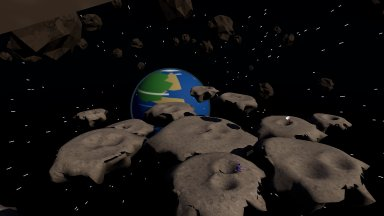
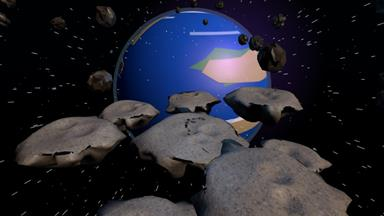
Comet Crash: the five small outer asteroids are gone; the big ring now orbits the hub and weaves, neighbours rising and sinking out of step so they pass above and below each other; riders are carried

diff --git a/src/comet.js b/src/comet.js
@@ -25,17 +25,19 @@ export function buildComet(A, T) {
   const addRoid = (x, z, y, R) => {
     const p = { kind: 'roid', x, z, y, w: 2 * R, d: 2 * R, ang: 0, round: R, i: plats.length, meshes: [], boxes: [], ramps: [], rays: [] };
     const ph = [r() * TAU, r() * TAU, r() * TAU], craters = []; for (let k = 0; k < 2 + (R > 12 ? 2 : 0); k++) { const a = r() * TAU, d = r() * R * 0.55; craters.push([x + Math.cos(a) * d, z + Math.sin(a) * d, 2 + r() * R * 0.18]); }
+    p.base = { x, y, z }; // (it drifts: everything below is measured from where it is now)
     p.hf = (qx, qz) => { // a lumpy, cratered top that rounds off at the edge
-      const dx = qx - x, dz = qz - z, u = Math.hypot(dx, dz) / R;
+      const dx = qx - p.x, dz = qz - p.z, u = Math.hypot(dx, dz) / R;
       let h = 0.45 * Math.sin(dx * 0.31 + ph[0]) * Math.sin(dz * 0.27 + ph[1]) + 0.25 * Math.sin(dx * 0.13 - dz * 0.17 + ph[2]);
-      for (const [cx, cz, cr] of craters) { const e = Math.hypot(qx - cx, qz - cz) / cr; h += -0.9 * Math.exp(-e * e * 2) + 0.35 * Math.exp(-(e - 1) * (e - 1) * 8); } // a dip with a raised rim
+      for (const [cx, cz, cr] of craters) { const e = Math.hypot(dx + x - cx, dz + z - cz) / cr; h += -0.9 * Math.exp(-e * e * 2) + 0.35 * Math.exp(-(e - 1) * (e - 1) * 8); } // a dip with a raised rim
       if (u > 0.8) h -= 1.6 * Math.min(1, (u - 0.8) / 0.2) ** 2;
-      return y + h;
+      return p.y + h;
     };
-    plats.push(p); A.discs.push({ x, z, r: R, y0: y - R * 0.7, y1: y, hf: p.hf }); p.discs = [A.discs[A.discs.length - 1]];
+    plats.push(p); A.discs.push({ x, z, r: R, y0: y - R * 0.7, y1: y + 1, hf: p.hf }); p.discs = [A.discs[A.discs.length - 1]];
     const box = { x0: x - R * 0.8, x1: x + R * 0.8, y0: y - R * 0.7, y1: y + 0.4, z0: z - R * 0.8, z1: z + R * 0.8 }; A.rayBoxes.push(box); p.rays.push(box);
     A.node('P' + p.i, x, p.hf(x, z), z).plat = p.i;
-    for (let k = 0; k < (R > 12 ? 3 : 1); k++) { const a = r() * TAU, d = k ? R * 0.45 : 0, sx = x + Math.cos(a) * d, sz = z + Math.sin(a) * d, sp = new THREE.Vector3(sx, p.hf(sx, sz) + 0.05, sz); sp.plat = p.i; A.spawns.push(sp); }
+    p.sps = [];
+    for (let k = 0; k < (R > 12 ? 3 : 1); k++) { const a = r() * TAU, d = k ? R * 0.45 : 0, sx = x + Math.cos(a) * d, sz = z + Math.sin(a) * d, sp = new THREE.Vector3(sx, p.hf(sx, sz) + 0.05, sz); sp.plat = p.i; sp.off = [sx - x, sz - z]; A.spawns.push(sp); p.sps.push(sp); }
     // the mesh: the top as a fine polar grid on the height function, the underside a lumpy dome
     const NA = 48, NT = 12, NB = 9, pos = [], col = [], idx = [], lump = (a, t) => 1 + 0.16 * Math.sin(3 * a + ph[0] + t * 3) + 0.08 * Math.sin(7 * a + ph[1] - t * 4) + 0.05 * Math.sin(13 * a + ph[2]);
     for (let i = 0; i <= NT; i++) for (let j = 0; j <= NA; j++) { const a = j / NA * TAU, rr = i / NT * R * (i === NT ? lump(a, 0) * 0.97 : 1), px = x + Math.cos(a) * rr, pz = z + Math.sin(a) * rr; const yy = p.hf(px, pz); pos.push(px, yy, pz); const c = 0.8 + (yy - y) * 0.12; col.push(c, c * 0.97, c * 0.94); }
@@ -55,15 +57,31 @@ export function buildComet(A, T) {
   const hub = addRoid(0, 0, 0, 16);
   const ring = [];
   for (let k = 0; k < 7; k++) { // the ring: each a jump (or a dash) from the hub and from its neighbours
-    const R = 8 + r() * 4, a = k / 7 * TAU + (r() - 0.5) * 0.2, d = 16 + R + 4.5 + r() * 2.5, y = Math.round((r() - 0.4) * 10);
-    ring.push(addRoid(Math.cos(a) * d, Math.sin(a) * d, y, R));
+    const R = 9 + r() * 3.5, a = k / 7 * TAU + (r() - 0.5) * 0.12, d = 16 + R + 5 + r() * 2;
+    const q = addRoid(Math.cos(a) * d, Math.sin(a) * d, 0, R); q.ang0 = a; q.dist = d; q.slot = k; ring.push(q);
   }
-  for (let k = 0; k < 5; k++) { // a few further out, off the gaps in the ring
-    const a = (k / 5 + 0.07) * TAU, base = ring.reduce((best, q) => { const qa = Math.atan2(q.z, q.x), dd = Math.abs(((qa - a + Math.PI * 3) % TAU) - Math.PI); return dd < best.d ? { q, d: dd } : best; }, { q: null, d: 9 }).q;
-    const R = 6 + r() * 3, dist = Math.hypot(base.x, base.z) + base.round + R + 4 + r() * 3, y = base.y + Math.round((r() - 0.5) * 6);
-    addRoid(Math.cos(a) * dist, Math.sin(a) * dist, y, R);
-  }
-  for (const a of roids) for (const b of roids) if (a.i < b.i && Math.hypot(a.x - b.x, a.z - b.z) - a.round - b.round < 9 && Math.abs(a.y - b.y) < 7) A.link('P' + a.i, 'P' + b.i); // (bots jump the gaps)
+  // they weave round each other on the way in: each slides to and fro round the ring and rises and sinks, neighbours out
+  // of step, so as two close in on each other one passes high and the other low. The hub just bobs. Wall clock time: the
+  // same for every player. (Seen looking toward the planet: rocks crossing left and right, above and below each other.)
+  const WEAVE = TAU / 15, AMP_A = 0.11, AMP_Y = 7.5, ORBIT = TAU / 55; // (the whole ring also orbits the hub, once a minute or so)
+  const weave = (p, t) => { if (p === hub) return { x: 0, y: Math.sin(t * WEAVE * 0.7) * 1.2, z: 0 };
+    const ph = t * WEAVE + p.slot * (TAU * 3 / 7), a = p.ang0 + t * ORBIT + AMP_A * Math.sin(ph), d = p.dist + 1.5 * Math.cos(ph);
+    return { x: Math.cos(a) * d - p.base.x, y: AMP_Y * Math.sin(ph), z: Math.sin(a) * d - p.base.z }; };
+  const place = (t) => {
+    for (const p of roids) { const o = weave(p, t); p.prev = { x: p.x, y: p.y, z: p.z }; p.x = p.base.x + o.x; p.y = p.base.y + o.y; p.z = p.base.z + o.z;
+      for (const m of p.meshes) m.position.set(o.x, o.y, o.z);
+      const c = p.discs[0]; c.x = p.x; c.z = p.z; c.y0 = p.y - p.round * 0.7; c.y1 = p.y + 1;
+      const b = p.rays[0], k = p.round * 0.8; b.x0 = p.x - k; b.x1 = p.x + k; b.z0 = p.z - k; b.z1 = p.z + k; b.y0 = p.y - p.round * 0.7; b.y1 = p.y + 0.4;
+      const n = A.nodeMap.get('P' + p.i); if (n) n.p.set(p.x, p.hf(p.x, p.z), p.z);
+      for (const sp of p.sps) sp.set(p.x + sp.off[0], p.hf(p.x + sp.off[0], p.z + sp.off[1]) + 0.05, p.z + sp.off[1]); } };
+  let still = false; const wall = () => Date.now() / 1000;
+  // whoever stands on a rock is carried with it (the game passes the fighters it moves itself)
+  A.tickHazards = (fighters) => { for (const f of fighters) { if (!f.alive || !f.onGround) continue;
+    for (const p of roids) { if (!p.prev) continue; const dx = f.pos.x - p.prev.x, dz = f.pos.z - p.prev.z; if (dx * dx + dz * dz > p.round * p.round) continue;
+      const h = p.hf(f.pos.x + p.x - p.prev.x, f.pos.z + p.z - p.prev.z); if (Math.abs(f.pos.y - (h - (p.y - p.prev.y))) > 0.9) continue;
+      f.pos.x += p.x - p.prev.x; f.pos.z += p.z - p.prev.z; f.pos.y = Math.max(f.pos.y + p.y - p.prev.y, h); break; } } };
+  for (const a of roids) for (const b of roids) if (a.i < b.i && Math.hypot(a.x - b.x, a.z - b.z) - a.round - b.round < 11) A.link('P' + a.i, 'P' + b.i); // (bots jump the gaps)
+  place(wall()); place(wall()); // (where they are now, before anyone spawns)
 
   // ---- small rocks drifting round the cluster: grapple them to swing across
   const small = [];
@@ -109,6 +127,7 @@ export function buildComet(A, T) {
   const P = new THREE.Vector3(), tmp = new THREE.Vector3();
   A.cometTick = (dt, p, ended) => {
     dt = Math.min(0.1, dt || 0); clock += dt;
+    if (impactT < 0 && !still) place(wall()); else if (!still) { still = true; for (const p of roids) p.prev = { x: p.x, y: p.y, z: p.z }; } // (at impact they stop weaving and are blown apart)
     if (ended && impactT < 0) impactT = 0;
     if (impactT >= 0) { impactT += dt; prog = Math.min(1.02, prog + dt * 0.5); }
     else { // a soft spring toward where the match is (time left, players left, the score): after a death it starts gently, picks up and settles, over a few seconds; and it always creeps a little closer

diff --git a/src/main.js b/src/main.js
@@ -1,18 +1,18 @@
 import * as THREE from 'three';
-import { Arena, MAPS } from './arena.js?v=20261116202011';
-import { Fighter, PALETTE, GUARD, setMetalEnv, metalEnvFor } from './fighter.js?v=20261116202011';
-import { bakeMeshes, Pieces, Particles, splitSoup } from './slice.js?v=20261116202011';
-import { sfx, ensureAudio, setListener, setVolume, setMuted } from './audio.js?v=20261116202011';
-import * as net from './net.js?v=20261116202011';
-import { MODES, POINT_MODES, MODE_GOAL, ModeFx, makeCrown } from './modes.js?v=20261116202011';
-import { profile, addCoins, randomLook, cleanLook, item, cleanUp, upMul } from './cosmetics.js?v=20261116202011';
-import { makeKillFx } from './killfx.js?v=20261116202011';
-import { makeGrapple } from './grapple.js?v=20261116202011';
-import { initShop } from './shop.js?v=20261116202011';
-import { breakChunk, chunkSoup } from './dojo.js?v=20261116202011';
-import { portal } from './portal.js?v=20261116202011';
-import { Piranhas, GiantSaws, GiantBirds } from './piranha.js?v=20261116202011';
-import { makePost } from './post.js?v=20261116202011';
+import { Arena, MAPS } from './arena.js?v=20261116203021';
+import { Fighter, PALETTE, GUARD, setMetalEnv, metalEnvFor } from './fighter.js?v=20261116203021';
+import { bakeMeshes, Pieces, Particles, splitSoup } from './slice.js?v=20261116203021';
+import { sfx, ensureAudio, setListener, setVolume, setMuted } from './audio.js?v=20261116203021';
+import * as net from './net.js?v=20261116203021';
+import { MODES, POINT_MODES, MODE_GOAL, ModeFx, makeCrown } from './modes.js?v=20261116203021';
+import { profile, addCoins, randomLook, cleanLook, item, cleanUp, upMul } from './cosmetics.js?v=20261116203021';
+import { makeKillFx } from './killfx.js?v=20261116203021';
+import { makeGrapple } from './grapple.js?v=20261116203021';
+import { initShop } from './shop.js?v=20261116203021';
+import { breakChunk, chunkSoup } from './dojo.js?v=20261116203021';
+import { portal } from './portal.js?v=20261116203021';
+import { Piranhas, GiantSaws, GiantBirds } from './piranha.js?v=20261116203021';
+import { makePost } from './post.js?v=20261116203021';
 
 // ---------- settings ----------
 const store = {

diff --git a/src/arena.js b/src/arena.js
@@ -3,20 +3,20 @@
 // so collision and "what am I standing on" stay simple and identical in every browser.
 import * as THREE from 'three';
 import { buildPagoda, buildIsles, buildBowl } from './maps2.js';
-import { buildTilt } from './tilt.js?v=20261116202011';
-import { buildFoundry } from './foundry.js?v=20261116202011';
-import { buildBamboo } from './bamboo.js?v=20261116202011';
-import { buildCity } from './city.js?v=20261116202011';
-import { buildDojo } from './dojo.js?v=20261116202011';
-import { buildComet } from './comet.js?v=20261116202011';
-import { buildLava } from './lava.js?v=20261116202011';
-import { buildRun } from './run.js?v=20261116202011';
-import { buildGrove } from './grove.js?v=20261116202011';
-import { buildTransport } from './transport.js?v=20261116202011';
-import { applyLook } from './look.js?v=20261116202011';
-import { addScenery } from './scenery.js?v=20261116202011';
-import { addAtmosphere } from './atmos.js?v=20261116202011';
-import { makeMesa, mesaMesh } from './mesa.js?v=20261116202011';
+import { buildTilt } from './tilt.js?v=20261116203021';
+import { buildFoundry } from './foundry.js?v=20261116203021';
+import { buildBamboo } from './bamboo.js?v=20261116203021';
+import { buildCity } from './city.js?v=20261116203021';
+import { buildDojo } from './dojo.js?v=20261116203021';
+import { buildComet } from './comet.js?v=20261116203021';
+import { buildLava } from './lava.js?v=20261116203021';
+import { buildRun } from './run.js?v=20261116203021';
+import { buildGrove } from './grove.js?v=20261116203021';
+import { buildTransport } from './transport.js?v=20261116203021';
+import { applyLook } from './look.js?v=20261116203021';
+import { addScenery } from './scenery.js?v=20261116203021';
+import { addAtmosphere } from './atmos.js?v=20261116203021';
+import { makeMesa, mesaMesh } from './mesa.js?v=20261116203021';
 const NONE = [];
 const _bm = new THREE.Matrix4(), _bp = new THREE.Vector3(), _bq = new THREE.Quaternion(), _bs = new THREE.Vector3(), _UP = new THREE.Vector3(0, 1, 0); // bamboo instance updates
 

diff --git a/index.html b/index.html
@@ -4,7 +4,7 @@
 <meta charset="utf-8">
 <meta name="viewport" content="width=device-width,initial-scale=1">
 <title>Sever</title>
-<meta name="build" content="20261116202011">
+<meta name="build" content="20261116203021">
 <link rel="icon" href="data:,">
 <script>
 // Stale-page guard (as in Splatline): if version.json names a newer build than this page, reload once.
@@ -191,12 +191,12 @@ window.severVersion.check();
 <script type="importmap">
 { "imports": {
   "three": "./vendor/three.module.min.js",
-  "./src/main.js": "./src/main.js?v=20261116202011",
-  "./src/arena.js": "./src/arena.js?v=20261116202011",
-  "./src/fighter.js": "./src/fighter.js?v=20261116202011",
-  "./src/slice.js": "./src/slice.js?v=20261116202011",
-  "./src/audio.js": "./src/audio.js?v=20261116202011",
-  "./src/net.js": "./src/net.js?v=20261116202011"
+  "./src/main.js": "./src/main.js?v=20261116203021",
+  "./src/arena.js": "./src/arena.js?v=20261116203021",
+  "./src/fighter.js": "./src/fighter.js?v=20261116203021",
+  "./src/slice.js": "./src/slice.js?v=20261116203021",
+  "./src/audio.js": "./src/audio.js?v=20261116203021",
+  "./src/net.js": "./src/net.js?v=20261116203021"
 } }
 </script>
 </head>
@@ -352,6 +352,6 @@ window.severVersion.check();
 <div id="toast" style="opacity:0"></div>
 <div id="loading">Loading…</div>
 <noscript><p style="position:fixed;inset:0;display:flex;align-items:center;justify-content:center">Sever needs JavaScript and WebGL.</p></noscript>
-<script type="module" src="src/main.js?v=20261116202011"></script>
+<script type="module" src="src/main.js?v=20261116203021"></script>
 </body>
 </html>

diff --git a/src/shop.js b/src/shop.js
@@ -1,10 +1,10 @@
 // The shop screen: browse by category, try things on a turning, swinging preview fighter, buy and equip.
 import * as THREE from 'three';
-import { Fighter, PALETTE, setMetalEnv, metalEnvFor } from './fighter.js?v=20261116202011';
-import { Particles, Pieces, bakeMeshes } from './slice.js?v=20261116202011';
-import { makeKillFx } from './killfx.js?v=20261116202011';
-import { makeGrapple } from './grapple.js?v=20261116202011';
-import { CATEGORIES, CATALOG, item, profile, owns, buy, equip, UPGRADES, UP_MAX, UP_PRICES, buyUpgrade, upText, tierOf } from './cosmetics.js?v=20261116202011';
+import { Fighter, PALETTE, setMetalEnv, metalEnvFor } from './fighter.js?v=20261116203021';
+import { Particles, Pieces, bakeMeshes } from './slice.js?v=20261116203021';
+import { makeKillFx } from './killfx.js?v=20261116203021';
+import { makeGrapple } from './grapple.js?v=20261116203021';
+import { CATEGORIES, CATALOG, item, profile, owns, buy, equip, UPGRADES, UP_MAX, UP_PRICES, buyUpgrade, upText, tierOf } from './cosmetics.js?v=20261116203021';
 
 const $ = (id) => document.getElementById(id);
 const hex = (c) => '#' + c.toString(16).padStart(6, '0');

diff --git a/src/city.js b/src/city.js
@@ -3,9 +3,9 @@
 // breakable chunks as the Paper Dojo: every window pane shatters, office partitions and crates break, and the
 // steel frames (unbreakable) are there to swing from, run along and stand on.
 import * as THREE from 'three';
-import { cloudHeaps } from './scenery.js?v=20261116202011';
+import { cloudHeaps } from './scenery.js?v=20261116203021';
 import { deck, prop } from './maps2.js';
-import { kindMats, chunk, group, wall, stack, finishBrk, kill } from './dojo.js?v=20261116202011';
+import { kindMats, chunk, group, wall, stack, finishBrk, kill } from './dojo.js?v=20261116203021';
 
 const TAU = Math.PI * 2;
 const std = (color, o = {}) => new THREE.MeshStandardMaterial({ color, roughness: 0.8, ...o });

diff --git a/src/maps2.js b/src/maps2.js
@@ -3,8 +3,8 @@
 //   Pagoda Falls: a three-tier pagoda at sunset, stone islands, rock spires and terraces, red lacquer posts.
 //   Moonlit Isles: floating grass islands at night, a great cherry tree, rope bridges, bamboo groves.
 import * as THREE from 'three';
-import { buildMaw, mawY, buildTendrils } from './maw.js?v=20261116202011';
-import { glow, aurora } from './look.js?v=20261116202011';
+import { buildMaw, mawY, buildTendrils } from './maw.js?v=20261116203021';
+import { glow, aurora } from './look.js?v=20261116203021';
 
 const TAU = Math.PI * 2;
 const std = (color, o = {}) => new THREE.MeshStandardMaterial({ color, roughness: 0.8, ...o });

diff --git a/src/tilt.js b/src/tilt.js
@@ -5,8 +5,8 @@
 // whoever is on it; a new one is hung back on 10 s later.
 import * as THREE from 'three';
 import { drift } from './maps2.js';
-import { glow, aurora } from './look.js?v=20261116202011';
-import { cloudHeaps } from './scenery.js?v=20261116202011';
+import { glow, aurora } from './look.js?v=20261116203021';
+import { cloudHeaps } from './scenery.js?v=20261116203021';
 
 const TAU = Math.PI * 2, N = 6, R = 14, DISH = 1.9, ARM = 25, L = 22, HUB = 40, MAXOFF = 2; // platforms, radius, dish depth, crown arm, chain, crown height, extra swing
 const std = (color, o = {}) => new THREE.MeshStandardMaterial({ color, roughness: 0.7, ...o });

diff --git a/src/fighter.js b/src/fighter.js
@@ -2,8 +2,8 @@
 // cleanly), posed each frame with a long-striding run cycle, two-bone IK for arms and legs, and a sword
 // driven by the swing input (s.x, s.y).
 import * as THREE from 'three';
-import { buildBody, poseBody } from './body.js?v=20261116202011';
-import { item, cleanLook } from './cosmetics.js?v=20261116202011';
+import { buildBody, poseBody } from './body.js?v=20261116203021';
+import { item, cleanLook } from './cosmetics.js?v=20261116203021';
 
 // Every material that can end up on a sliced piece is registered here, so a piece's single mesh can use
 // one shared material array and keep each triangle's look.

diff --git a/src/piranha.js b/src/piranha.js
@@ -1,7 +1,7 @@
 // Great Canopy: fall too low and a giant piranha bursts out of the swamp, jaws wide, snaps you up and dives back in.
 // Purely visual (every client plays it locally when it sees a fall death on that map).
 import * as THREE from 'three';
-import { bladeMesh } from './foundry.js?v=20261116202011';
+import { bladeMesh } from './foundry.js?v=20261116203021';
 
 const TAU = Math.PI * 2;
 const std = (color, o = {}) => new THREE.MeshStandardMaterial({ color, roughness: 0.55, metalness: 0.15, ...o });

diff --git a/src/killfx.js b/src/killfx.js
@@ -1,8 +1,8 @@
 // Kill effects from the shop: what happens to someone you cut down. The body still splits along your
 // cut; the effect changes what sprays out, what the pieces leak, and what becomes of them.
 import * as THREE from 'three';
-import { Particles } from './slice.js?v=20261116202011';
-import { sfx } from './audio.js?v=20261116202011';
+import { Particles } from './slice.js?v=20261116203021';
+import { sfx } from './audio.js?v=20261116203021';
 
 const R = () => Math.random() - 0.5;
 

diff --git a/src/bamboo.js b/src/bamboo.js
@@ -5,7 +5,7 @@
 // them (and come back a few seconds later for the next fighter).
 import * as THREE from 'three';
 import { deck, prop, stalk, drift, farRing } from './maps2.js';
-import { kindMats, chunk, join, group, wall, stack, finishBrk, kill } from './dojo.js?v=20261116202011';
+import { kindMats, chunk, join, group, wall, stack, finishBrk, kill } from './dojo.js?v=20261116203021';
 
 const TAU = Math.PI * 2, HALF = 30, TILE = 1.5;
 
